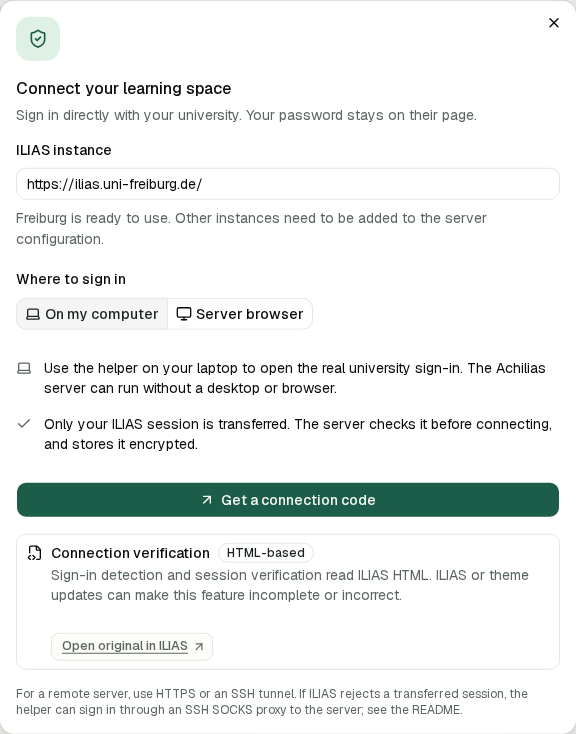
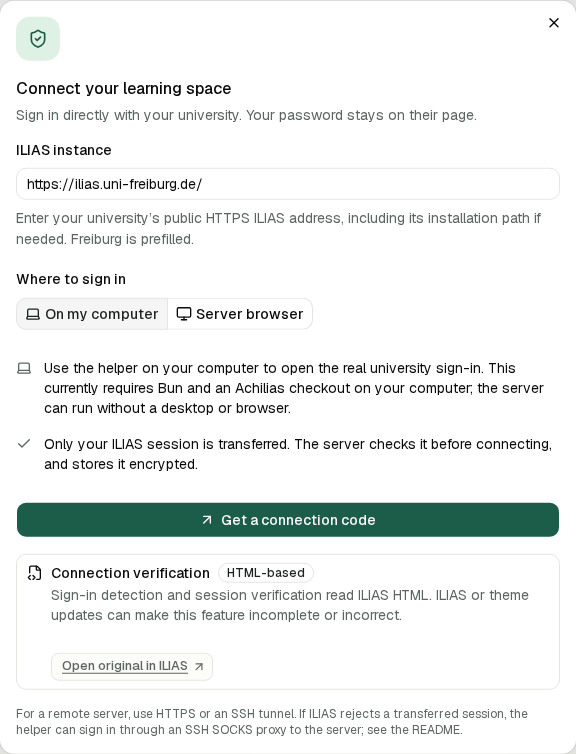
Document public deployment and controlled live-instance testing

diff --git a/README.md b/README.md
@@ -2,6 +2,14 @@
 
 A calmer frontend for ILIAS, built with **Bun, Next.js App Router, React, Tailwind CSS, and shadcn/ui (Radix Nova)**. Freiburg’s ILIAS is the default instance. This is an independent project, not a university service.
 
+## Before connecting a real account
+
+Live changes are **disabled by default**. Browse locally first and compare the parsed data with the original. ILIAS can still record visits, downloads, or read status while browsing. Follow the [real-instance testing guide](docs/live-testing.md) before enabling any grade, deadline, feedback, or explicit mark-as-read changes. Authenticated Freiburg compatibility still needs a controlled real-account test.
+
+## Multiple users and instances
+
+One server process supports separate user sessions and user-entered public HTTPS ILIAS base URLs. University sign-in uses the helper on each user’s computer; it currently requires Bun and this checkout, rather than a browser-only password form. See the [multi-user deployment guide](docs/deployment.md) for HTTPS/proxy configuration, account isolation, supported instance policy, and the single-process limit.
+
 ## Screenshots
 
 The course and forum screens below use the demo workspace. All course names, materials, discussions, and saved items are examples. The connection screenshot shows the headless setup before generating a sign-in code.
@@ -241,21 +249,24 @@ Without `--server`, run this command from the same checkout and with the same `A
 
 Copy `.env.example` to `.env.local` when changing defaults. Bun loads `.env.local` for the connection command too.
 
-| Variable                 | Purpose                                                                                                                                                                               |
-| ------------------------ | ------------------------------------------------------------------------------------------------------------------------------------------------------------------------------------- |
-| `ILIAS_INSTANCES`        | Comma-separated additional HTTPS base URLs, including an installation subdirectory when applicable. Freiburg is always allowed. Only explicitly configured instances are fetched.     |
-| `ACHILIAS_DATA_DIR`      | Directory for encrypted sessions and the encryption key. Default: `.local/` in the checkout.                                                                                          |
-| `ACHILIAS_ORIGIN`        | Exact browser-visible app origin for mutation origin checks, especially behind a reverse proxy. Defaults to the local browser-visible host; configure this explicitly for remote use. |
-| `ACHILIAS_SECURE_COOKIE` | Set `true` when serving over HTTPS. Leave unset for local HTTP.                                                                                                                       |
-| `ACHILIAS_LOGIN_MODE`    | `auto` (default), `local`, or `remote`. `remote` uses the laptop helper and never launches a browser on the server.                                                                   |
-| `ACHILIAS_BROWSER_PATH`  | Optional path to a compatible local Chromium executable.                                                                                                                              |
-| `ACHILIAS_BUILD_DIR`     | Optional separate build output directory, useful while `next dev` is running.                                                                                                         |
+| Variable                      | Purpose                                                                                                                                                                                                                      |
+| ----------------------------- | ---------------------------------------------------------------------------------------------------------------------------------------------------------------------------------------------------------------------------- |
+| `ILIAS_INSTANCES`             | Comma-separated additional HTTPS base URLs, including an installation subdirectory when applicable. Freiburg is always allowed. Used when `ACHILIAS_RESTRICT_INSTANCES=true`; public HTTPS instances are otherwise accepted. |
+| `ACHILIAS_WRITE_TARGETS`      | Comma-separated canonical exercise/forum URLs allowed to make live changes. Unset means disabled. See [live testing](docs/live-testing.md).                                                                                  |
+| `ACHILIAS_RESTRICT_INSTANCES` | Set `true` to accept only Freiburg and the configured `ILIAS_INSTANCES`. Default accepts public HTTPS hostnames.                                                                                                             |
+| `ACHILIAS_TRUST_PROXY`        | Set `true` only behind a proxy that overwrites `X-Forwarded-For` and prevents direct app access. Enables per-client sign-in limits.                                                                                          |
+| `ACHILIAS_DATA_DIR`           | Directory for encrypted sessions and the encryption key. Default: `.local/` in the checkout.                                                                                                                                 |
+| `ACHILIAS_ORIGIN`             | Exact browser-visible app origin for mutation origin checks, especially behind a reverse proxy. Defaults to the local browser-visible host; configure this explicitly for remote use.                                        |
+| `ACHILIAS_SECURE_COOKIE`      | Automatically enabled for an HTTPS `ACHILIAS_ORIGIN`; set `true` to force it. Leave unset for local HTTP.                                                                                                                    |
+| `ACHILIAS_LOGIN_MODE`         | `auto` (default), `local`, or `remote`. `remote` uses the laptop helper. Public HTTPS origins always use remote mode.                                                                                                        |
+| `ACHILIAS_BROWSER_PATH`       | Optional path to a compatible local Chromium executable.                                                                                                                                                                     |
+| `ACHILIAS_BUILD_DIR`          | Optional separate build output directory, useful while `next dev` is running.                                                                                                                                                |
 
 Restart the server after configuration changes. Additional instances appear through the URL field in the connection dialog; their specific themes/authentication have not been verified.
 
 ### Data and hosting
 
-This version supports a **personal local or headless Node/Bun server**, rather than serverless hosting or a publicly shared sign-in service. The server must have a writable data directory. Remote access uses HTTPS or an SSH tunnel. Run a single server process for login jobs and single-use connection claims.
+This version supports **multiple users on one persistent Node server process**, locally or behind an HTTPS reverse proxy. It needs a writable private data directory. Serverless hosting, multiple workers and multiple replicas are not supported. Follow the [deployment guide](docs/deployment.md) for public hosting, proxy trust and sign-in limits.
 
 ILIAS session jars stay server-side, encrypted using AES-256-GCM. The key and files have owner-only permissions; the directory is ignored by Git. The app browser gets an opaque HttpOnly, SameSite=Strict cookie. Achilias sessions expire after 12 hours, or earlier when ILIAS invalidates its session. Disconnect removes the active server-side session; it does not log out other university services. Expired session files are deleted when accessed. To remove all retained session data, stop the server and delete the `.local/` directory (or your configured data directory).
 

diff --git a/docs/deployment.md b/docs/deployment.md
@@ -1,0 +1,77 @@
+# Multi-user deployment
+
+Achilias supports independent users on one server process. Each browser profile has one active ILIAS connection, with its own encrypted cookie jar and temporary login codes. Users can enter different public HTTPS ILIAS base URLs, including installations under a path. No shared university account or Achilias registration is required. ILIAS remains responsible for account permissions.
+
+## Sign-in experience
+
+Users enter their instance URL in **Connect your learning space**, request a connection code, and run the laptop helper shown there. The helper opens their university’s real login/SSO page and transfers only that ILIAS instance’s cookies to their browser’s pending server session. Users enter their university credentials on the university page; Achilias has no password form. A public deployment always uses this helper and cannot launch a shared server browser.
+
+This means sign-in currently requires Bun, this checkout, and the browser helper on the user’s computer. It is **not a browser-only login service**. Native university SSO cannot simply be embedded into a third-party origin. Session portability, MFA and IP-binding depend on the instance; the README documents the optional SOCKS workaround. Confirm the flow with a real test account before inviting users.
+
+## Run behind HTTPS
+
+Use Node >=22.19 and Bun. Run one production app process, with persistent private session storage. For example:
+
+```sh
+bun install --frozen-lockfile
+bun run build
+bun run start
+```
+
+Set these in `.env.local` before building/starting, replacing the example origin and directory:
+
+```dotenv
+ACHILIAS_ORIGIN=https://learn.example.org
+ACHILIAS_LOGIN_MODE=remote
+ACHILIAS_DATA_DIR=/var/lib/achilias
+# Only enable behind a trusted proxy that overwrites X-Forwarded-For.
+ACHILIAS_TRUST_PROXY=true
+# Leave this unset during initial browsing/compatibility tests.
+# ACHILIAS_WRITE_TARGETS=https://ilias.example.edu/goto.php?target=exc_12345
+```
+
+The app binds `127.0.0.1` by default. Forward your HTTPS reverse proxy to it. A typical Nginx location inside your existing TLS virtual host is:
+
+```nginx
+location / {
+    proxy_pass http://127.0.0.1:3000;
+    proxy_http_version 1.1;
+    proxy_set_header Host $host;
+    proxy_set_header X-Forwarded-Proto $scheme;
+    # Overwrite, do not append untrusted client-supplied addresses.
+    proxy_set_header X-Forwarded-For $remote_addr;
+    client_max_body_size 300k;
+    proxy_read_timeout 60s;
+    proxy_buffering off;
+    proxy_cache off;
+}
+```
+
+Terminate TLS at the proxy and keep the app port inaccessible directly. Use a dedicated unprivileged OS account and a session directory owned by it with mode `0700`. HTTPS origins automatically cause Secure, HttpOnly, SameSite=Strict session cookies. Set the exact public origin so API origin checks work. Avoid subpath hosting: current routes expect the app at `/`.
+
+## Instance and network policy
+
+Public HTTPS hostnames on port 443 are accepted by default. Private networks, IP literals, single-label/local hostnames and reserved addresses are rejected. Every TLS connection resolves the hostname, rejects the entire answer if any IP is non-public, and pins the vetted addresses to that connection. Same-instance redirects cannot send cookies elsewhere; redirects that would repeat a POST are refused. There is no environment-proxy bypass in this transport.
+
+For a curated service, optionally restrict the accepted instances:
+
+```dotenv
+ACHILIAS_RESTRICT_INSTANCES=true
+ILIAS_INSTANCES=https://another-university.edu/ilias/
+```
+
+Freiburg is always on the curated list. The restriction does not allow private-network destinations. Other institutions may have unsupported HTML, SSO or permissions: being able to enter an instance URL is not a compatibility guarantee.
+
+## Isolation, limits, and operations
+
+- Session IDs are random bearer secrets in an HttpOnly browser cookie; encrypted files are separate per connection. Login codes are scoped, expire and are single-use. Only exact-instance cookies are imported, excluding identity-provider cookies.
+- Personal pages and downloads use `private, no-store`. Authenticated upstream reads bypass Next’s shared fetch cache. Connection changes reload the document to clear the browser router cache. Saved items/history are stored in the browser under a separate key for each connection; separate browser profiles are still appropriate on a shared computer.
+- Mutations check the current cookie/session and connection identity. Object URLs, members and units are revalidated against fresh authorized upstream forms. ILIAS permissions are never granted by an Achilias UI control.
+- Live changes remain disabled unless the administrator lists specific canonical exercise/forum URLs in `ACHILIAS_WRITE_TARGETS`. This is a server-wide feature allowlist, not a per-user grant: each user still needs upstream rights. Follow [controlled live testing](live-testing.md) before allowing real grades or notifications.
+- In-process sign-in limits allow 12 starts and 60 helper/claim requests per client per ten minutes, with separate global ceilings and eight simultaneous verifications. Without a trusted proxy, clients share the anonymous limit. Do not enable proxy trust when clients can reach the app port or supply the forwarding header. Add edge/proxy throttling for an Internet-facing service; these bounds do not replace DDoS protection.
+- Text responses are limited to 8 MiB after decompression before parsing, upstream response bodies to 512 MiB, and requests have timeouts. Larger content should use the original ILIAS interface. Downloads stream on the server; the current browser download helper buffers the finished file.
+- Sessions expire logically after twelve hours, and cancellation/disconnection deletes their files. New connections periodically clean abandoned files whose last modification is older than twelve hours. Keep storage backed up only if necessary: both encrypted session files and their key are credential material. Losing the key requires everyone to reconnect.
+
+**Run a single app process / replica.** Session locks, rate limits, login verification concurrency and cookie-rotation coordination are in process. File storage supports concurrent users in that process; sharing it between replicas or clustering workers is not supported. For horizontal scaling, replace the session/locking/limits layer with shared transactional storage first. The server operator can decrypt sessions with the stored key; users must trust the operator.
+
+The deployment and isolation checks are automated with synthetic accounts. They are not a penetration test, and authenticated Freiburg behavior still needs real-account validation. Keep the dependency audit and Next.js security updates under review before a public launch.

diff --git a/docs/live-testing.md b/docs/live-testing.md
@@ -1,0 +1,45 @@
+# Testing with a real ILIAS account
+
+Start with local browsing. **Live changes are disabled by default**, including assessments, exercise creation/settings, learner feedback, and explicit forum mark-as-read. The server checks this before contacting ILIAS for these actions; disabling a button is not the security boundary. The demo remains interactive.
+
+This is an early third-party client, not an audited university service. Authenticated Freiburg compatibility has not yet been established with a real account. A successful demo or fixture test does not verify your instance’s permissions, theme, timezone, team expansion, or notification behavior.
+
+## First connection
+
+1. Leave `ACHILIAS_WRITE_TARGETS` unset. Run locally with `bun run dev` (binds to `127.0.0.1`), or use the documented SSH tunnel for a headless server. For ongoing use, build and run the production app. Do not expose a development server publicly.
+2. Complete university sign-in in the dedicated browser. Achilias imports ILIAS cookies, not your university password. The machine running Achilias can act with your ILIAS account: use a machine you trust. Protect `.local/` or `ACHILIAS_DATA_DIR` as credentials; it contains both encrypted sessions and their key. Do not share cookies, pairing codes, database/session files, or screenshots containing student data.
+3. Browse a course, a forum/thread, an exercise, and a unit’s submissions. Compare participant/team names, submission counts, status, private versus learner-visible feedback, and deadline/timezone values using **Open original in ILIAS**. Missing/unknown fields should stay visibly unknown. Stop using an affected feature if these disagree.
+4. Try a submission download and verify the participant/team and file in the original. Files come from authenticated ILIAS and should be handled with the same care as normal downloads.
+5. Disconnect when finished. Disconnect removes the local session; it does not log every other university browser out.
+
+Browsing is **not guaranteed side-effect-free**. ILIAS can record visits, downloads and read status, or store table/view preferences on GET requests. The protection blocks Achilias’s explicit mutation features, not all possible ILIAS behavior. Links to the original open the normal interface, where your usual permissions apply.
+
+## Controlled editing test
+
+Use a disposable exercise/forum and test participants, with permission to alter their data. Do not start by changing actual students’ grades or live deadlines. If no suitable test exercise is available, leave editing disabled and use the original ILIAS editor.
+
+Add only the canonical object URLs you intend to test to `.env.local`, then restart the server:
+
+```dotenv
+# Replace these example IDs with your disposable test objects.
+ACHILIAS_WRITE_TARGETS=https://ilias.uni-freiburg.de/goto.php?target=exc_12345,https://ilias.uni-freiburg.de/goto.php?target=frm_67890
+```
+
+No wildcards, bare IDs, unit URLs, or controller URLs are accepted. An exercise entry enables its unit creation, unit settings, assessments and learner feedback. A forum entry enables explicit mark-as-read for that forum. This is a server-wide object allowlist, not a per-user permission system; ILIAS permissions still apply. Use test participants and inform every tester before enabling a shared test object; see [multi-user deployment](deployment.md).
+
+Test one change at a time, compare the result in the original, and check for unintended effects:
+
+- Assess one test participant, then a test team. A team assessment can affect every member. Confirm other rows remain unchanged and private notes stay private.
+- Save learner feedback separately. ILIAS may notify learners/team members; an email cannot be undone by restoring the text. Saving unchanged feedback does not send another POST.
+- Create a test unit and change a test deadline. Confirm title, instructions, timezone, mandatory status, and unrelated settings in the original. Relative, individual or locked schedules require the original editor.
+- Mark a test discussion as read and confirm its state in ILIAS.
+
+Achilias rediscovers authorized forms and fresh tokens, rejects conflicting IDs and stale values, and reads back saved values. These checks reduce mistakes; HTML adaptation cannot prove every upstream side effect. Concurrent changes made in the original between the fresh check and the save remain possible. There is no general undo or exactly-once guarantee.
+
+If a request times out, verification fails, or a POST redirect would repeat the write, **check the original before retrying**. The first request may already have succeeded. Do not automatically retry unit creation or feedback. Remove the allowlist and restart after testing.
+
+## Deployment and dependency limits
+
+Use loopback plus SSH, or HTTPS with `ACHILIAS_ORIGIN` set to the public HTTPS origin. HTTPS origins automatically use Secure session cookies. Session files are private to the OS account, but encryption does not protect them from an administrator who can read both the files and key. Backups need the same protection.
+
+`bun audit` was checked during this safety pass. Outstanding advisories affect `deepmerge` and `minimatch` in the shadcn CLI / lint tooling dependency trees, rather than a known application request path. Do not treat this as a clean dependency audit or a penetration test. Re-run `bun audit` before deploying; review updates rather than forcing incompatible transitive major versions.

diff --git a/docs/architecture.md b/docs/architecture.md
@@ -68,3 +68,9 @@ The shared upstream client supports URL-encoded POSTs and browser redirect seman
 Browser downloads use the same `downloadFile` helper for course materials and tutor submissions, so expired-session or permission errors stay in the app. The server streams the response; the current browser helper prepares a Blob before handing it to the download manager. Large submissions therefore use browser memory while preparing. Bulk archives remain available in the original interface.
 
 Exercise adapter reference (ILIAS 10, commit `d8dd98bc6cd09446465b2999199594f574babab3`): [exercise management and single-row assessment semantics](https://github.com/ILIAS-eLearning/ILIAS/blob/d8dd98bc6cd09446465b2999199594f574babab3/components/ILIAS/Exercise/classes/class.ilExerciseManagementGUI.php), [unit creation and schedule forms](https://github.com/ILIAS-eLearning/ILIAS/blob/d8dd98bc6cd09446465b2999199594f574babab3/components/ILIAS/Exercise/Assignment/class.ilExAssignmentEditorGUI.php), and [learner feedback and team notification semantics](https://github.com/ILIAS-eLearning/ILIAS/blob/d8dd98bc6cd09446465b2999199594f574babab3/components/ILIAS/Exercise/Submission/class.ilExerciseSubmissionFeedbackGUI.php).
+
+## Public multi-user boundary
+
+`upstream-transport.ts` owns the HTTPS transport and DNS-to-socket public-address validation; `client.ts` owns scoped redirects, cookie rotation, bounded text reads and ambiguous-write handling. Tests replace the explicit transport seam instead of the process-wide fetch function. User instance URLs must never be fetched through a different transport. `request-limits.ts` bounds sign-in endpoints and verification concurrency; it trusts forwarded addresses only when explicitly configured.
+
+`write-policy.ts` is shared by server mutation guards and UI capability state. `requireWorkspaceConnection` binds actions to the displayed connection to reject stale tabs after an account switch. UI-only disabling is insufficient. Sessions, locks and rate limits currently support concurrent users in one process; see [deployment](deployment.md) before hosting or considering replicas.
